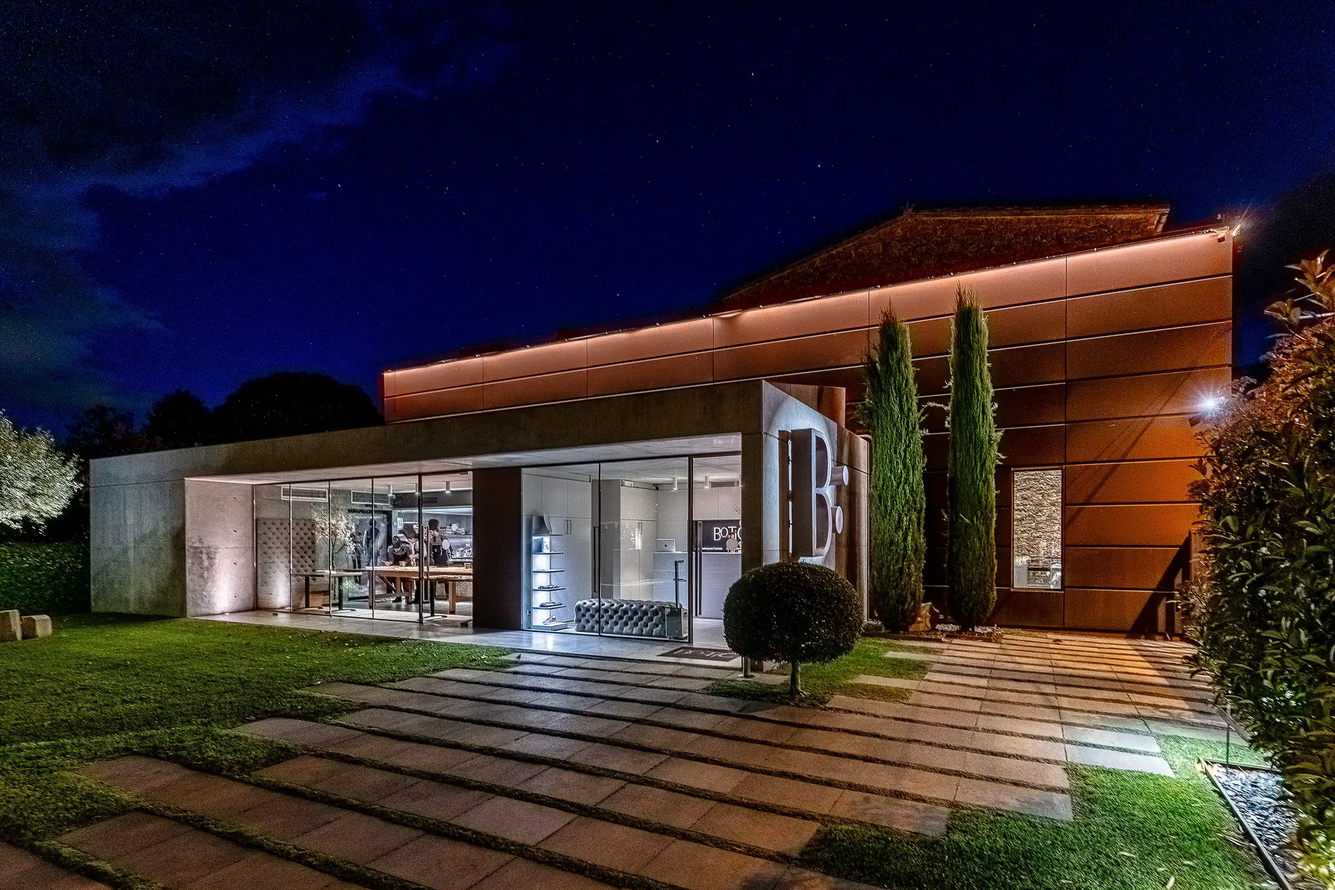
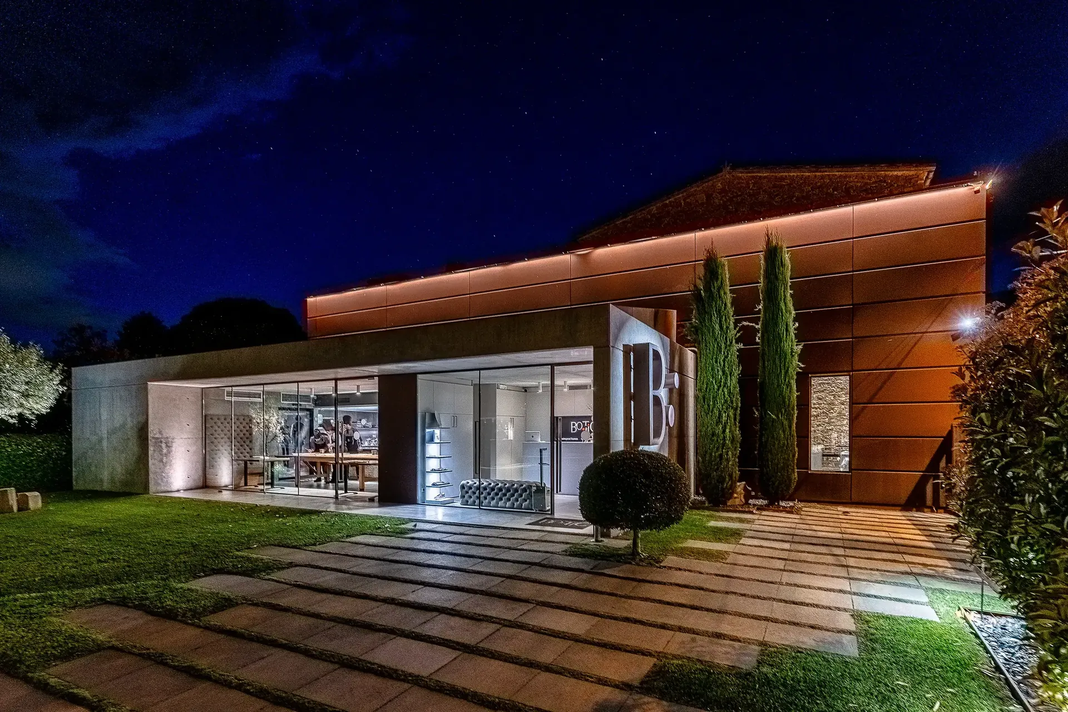
Prepare SEO migration, restore legacy image links and improve analytics attribution

diff --git a/src/analytics/tracking.js b/src/analytics/tracking.js
@@ -18,6 +18,26 @@ export function createTracking({ win, doc, gtmId = '', gaId = '', enabled = fals
   let consent = { analytics: false, marketing: false }
   let started = false
   let lastPage = ''
+  let lastLocation = ''
+  // Keep campaign attribution without forwarding arbitrary query parameters
+  // (booking details, email addresses, tokens) to Analytics.
+  const campaignKeys = ['utm_source', 'utm_medium', 'utm_campaign', 'utm_id', 'utm_term', 'utm_content', 'gclid', 'dclid', 'gbraid', 'wbraid']
+  const landingSearch = new URLSearchParams(win.location.search || '')
+  function safeLocation(pathname, search) {
+    const url = new URL(pathname, win.location.origin)
+    url.search = ''
+    url.hash = ''
+    for (const key of campaignKeys) {
+      const value = search.get(key)
+      if (value) url.searchParams.set(key, value)
+    }
+    return url.href
+  }
+  let landingReferrer = ''
+  try {
+    const ref = new URL(doc.referrer)
+    if (['https:', 'http:'].includes(ref.protocol)) landingReferrer = ref.origin + ref.pathname
+  } catch { /* Direct visits have no referrer. */ }
   win.dataLayer = win.dataLayer || []
   function gtag() { win.dataLayer.push(arguments) }
   win.gtag = gtag
@@ -31,7 +51,7 @@ export function createTracking({ win, doc, gtmId = '', gaId = '', enabled = fals
   function applyConsent(choice) {
     consent = { analytics: choice.analytics === true, marketing: choice.marketing === true }
     gtag('consent', 'update', states(consent))
-    if (!consent.analytics) lastPage = ''
+    if (!consent.analytics) { lastPage = ''; lastLocation = '' }
     if (!enabled || (!gtm && !ga)) return
     win.dataLayer.push({ event: 'botic_consent', botic_analytics: consent.analytics, botic_marketing: consent.marketing })
     if (started || (!consent.analytics && !(gtm && consent.marketing))) return
@@ -55,12 +75,14 @@ export function createTracking({ win, doc, gtmId = '', gaId = '', enabled = fals
   }
   function page(pathname) {
     if (!consent.analytics || !started || pathname === lastPage) return
-    const previous = lastPage
+    const previous = lastLocation
+    const location = safeLocation(pathname, lastPage ? new URLSearchParams(win.location.search || '') : landingSearch)
     lastPage = pathname
+    lastLocation = location
     event('page_view', {
-      page_location: win.location.origin + pathname,
+      page_location: location,
       page_path: pathname,
-      page_referrer: previous ? win.location.origin + previous : '',
+      page_referrer: previous || landingReferrer,
       language: pathname.split('/')[1] || 'ca',
     })
   }

diff --git a/docs/MIGRACIO-SEO.md b/docs/MIGRACIO-SEO.md
@@ -1,3 +1,17 @@
+# Actualització executada — 21/09/2026
+
+Aquest apartat substitueix els pendents històrics que es detallen més avall quan hi ha discrepància.
+
+- Autoritzada la retirada de la botiga antiga: 4 URL de botiga redirigeixen amb 301 a Restoo en l’idioma corresponent; 14 URL de comptes, compra, cistella i devolucions retornen 410. Cap dada de WordPress s’ha esborrat. El mapa JSON és la font actual.
+- 23 imatges originals recuperades, convertides a WebP i preservades amb redireccions exactes. Només queda fora el placeholder del connector d’Instagram. Mapa: migration-image-map.json.
+- Search Console i GA4 vinculats correctament el 21/09: propietat https://bo-tic.com/, flux 13351810979.
+- Atribució: conservats els paràmetres de campanya permesos i la procedència inicial; exclosos paràmetres arbitraris i fragments. Proves de consentiment i navegació SPA superades.
+- 19 imatges existents optimitzades: de 6500,8 a 5146,2 KiB, aproximadament un 21% menys. Comparacions visuals revisades. Les 6 variants mòbils revisades queden sota 150 KiB; algunes fotografies grans d’escriptori mantenen 360–454 KiB per preservar detall.
+- Pendents que depenen del domini: certificat, host canònic, resposta robots efectiva, sitemap a Search Console, preservació de verificació, prova Analytics/Tag Assistant en producció i conversions completades de Restoo.
+- Encara cal contrastar URL òrfenes amb exportacions històriques de Search Console. La migració no garanteix absència de fluctuacions de posicionament.
+
+---
+
 # Migració SEO de bo-tic.com — 17/09/2026
 
 ## Abast i límits
